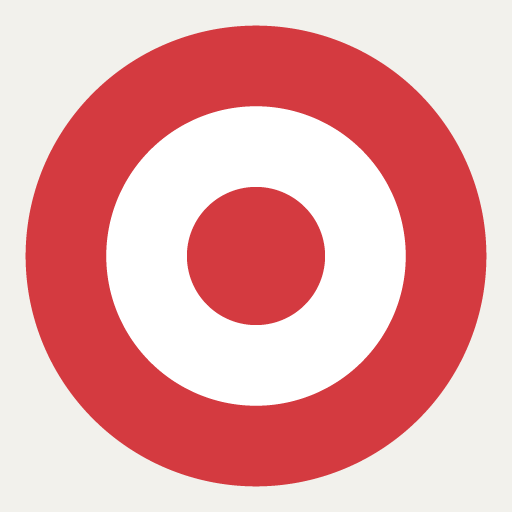
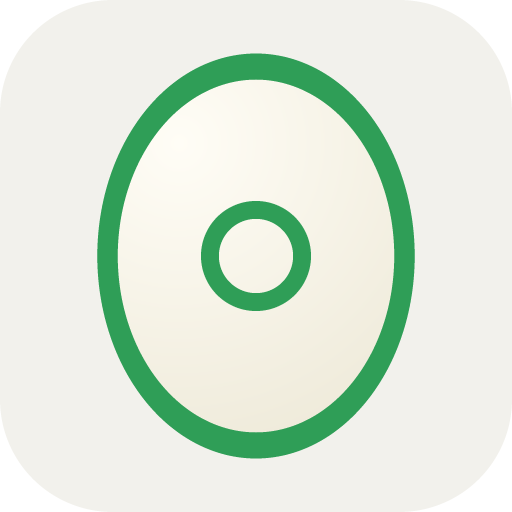
v1.4.2: アプリアイコンを的ボタン風の楕円に変更
- icons/(svg・192・512・apple-touch 180)を同心円から縦長の楕円+緑のヒットリングへ
- ヘッダーのロゴマークも同じ楕円に

diff --git a/index.html b/index.html
@@ -21,9 +21,8 @@
 <div id="app">
   <header id="header">
     <svg viewBox="0 0 100 100" class="brand-icon" aria-hidden="true">
-      <circle cx="50" cy="50" r="46" fill="var(--accent)"/>
-      <circle cx="50" cy="50" r="30" fill="var(--surface)"/>
-      <circle cx="50" cy="50" r="14" fill="var(--accent)"/>
+      <ellipse cx="50" cy="50" rx="34" ry="44" fill="var(--surface2)" stroke="var(--green)" stroke-width="8"/>
+      <circle cx="50" cy="50" r="12" fill="none" stroke="var(--green)" stroke-width="7"/>
     </svg>
     <h1>APSプレートタイマー</h1>
     <span class="h-sub" id="h-sub"></span>

diff --git a/sw.js b/sw.js
@@ -2,7 +2,7 @@
    更新の仕方: 下の VERSION を上げる → install で新キャッシュを作り、activate で旧キャッシュを消す。
    注意: <audio>/<video> で読む keepalive.mp4 は Safari が Range 要求で取りに来るので、
    キャッシュから返すときは 206 Partial Content に切り出して返す(これが無いと再生できない)。 */
-const VERSION = 'v1.4.1';
+const VERSION = 'v1.4.2';
 const CACHE = `aps-plate-timer-${VERSION}`;
 const BASE = new URL('./', self.location.href).pathname; // サブパス配信(GitHub Pages)対応
 

diff --git a/js/app.js b/js/app.js
@@ -8,7 +8,7 @@ import { createTimerView } from './views/timer.js';
 import { createHistoryView } from './views/history.js';
 import { createSettingsView } from './views/settings.js';
 
-export const APP_VERSION = '1.4.1';
+export const APP_VERSION = '1.4.2';
 
 const views = {};
 const roots = {

diff --git a/CLAUDE.md b/CLAUDE.md
@@ -27,7 +27,7 @@ js/logic/plateclip.js         クリップ実測定数(流用)
 js/logic/rhythm.js            反応時間の集計(射撃ノート score.js の plateRhythm を切り出し)
 js/logic/shotanalysis.js      録音の事後解析(純関数・流用。初版ではUI無し。Node検算のみ)
 audio/                  plate-call.m4a(競技実音声)・ref-{opening,break,finish}.m4a(審判録音)・ai-male/ ai-female/(AI音声版、同名ファイル。詳細は audio/README.md)・keepalive.mp4(無音)
-icons/                  icon.svg / icon-192.png / icon-512.png / apple-touch-icon.png(tools 不要、Python標準ライブラリで生成)
+icons/                  icon.svg / icon-192.png / icon-512.png / apple-touch-icon.png(的ボタンを模した縦長の楕円+緑のヒットリング。v1.4.2で同心円から変更。Python標準ライブラリで生成)
 tools/                  Node検算・開発サーバー
 ```
 
